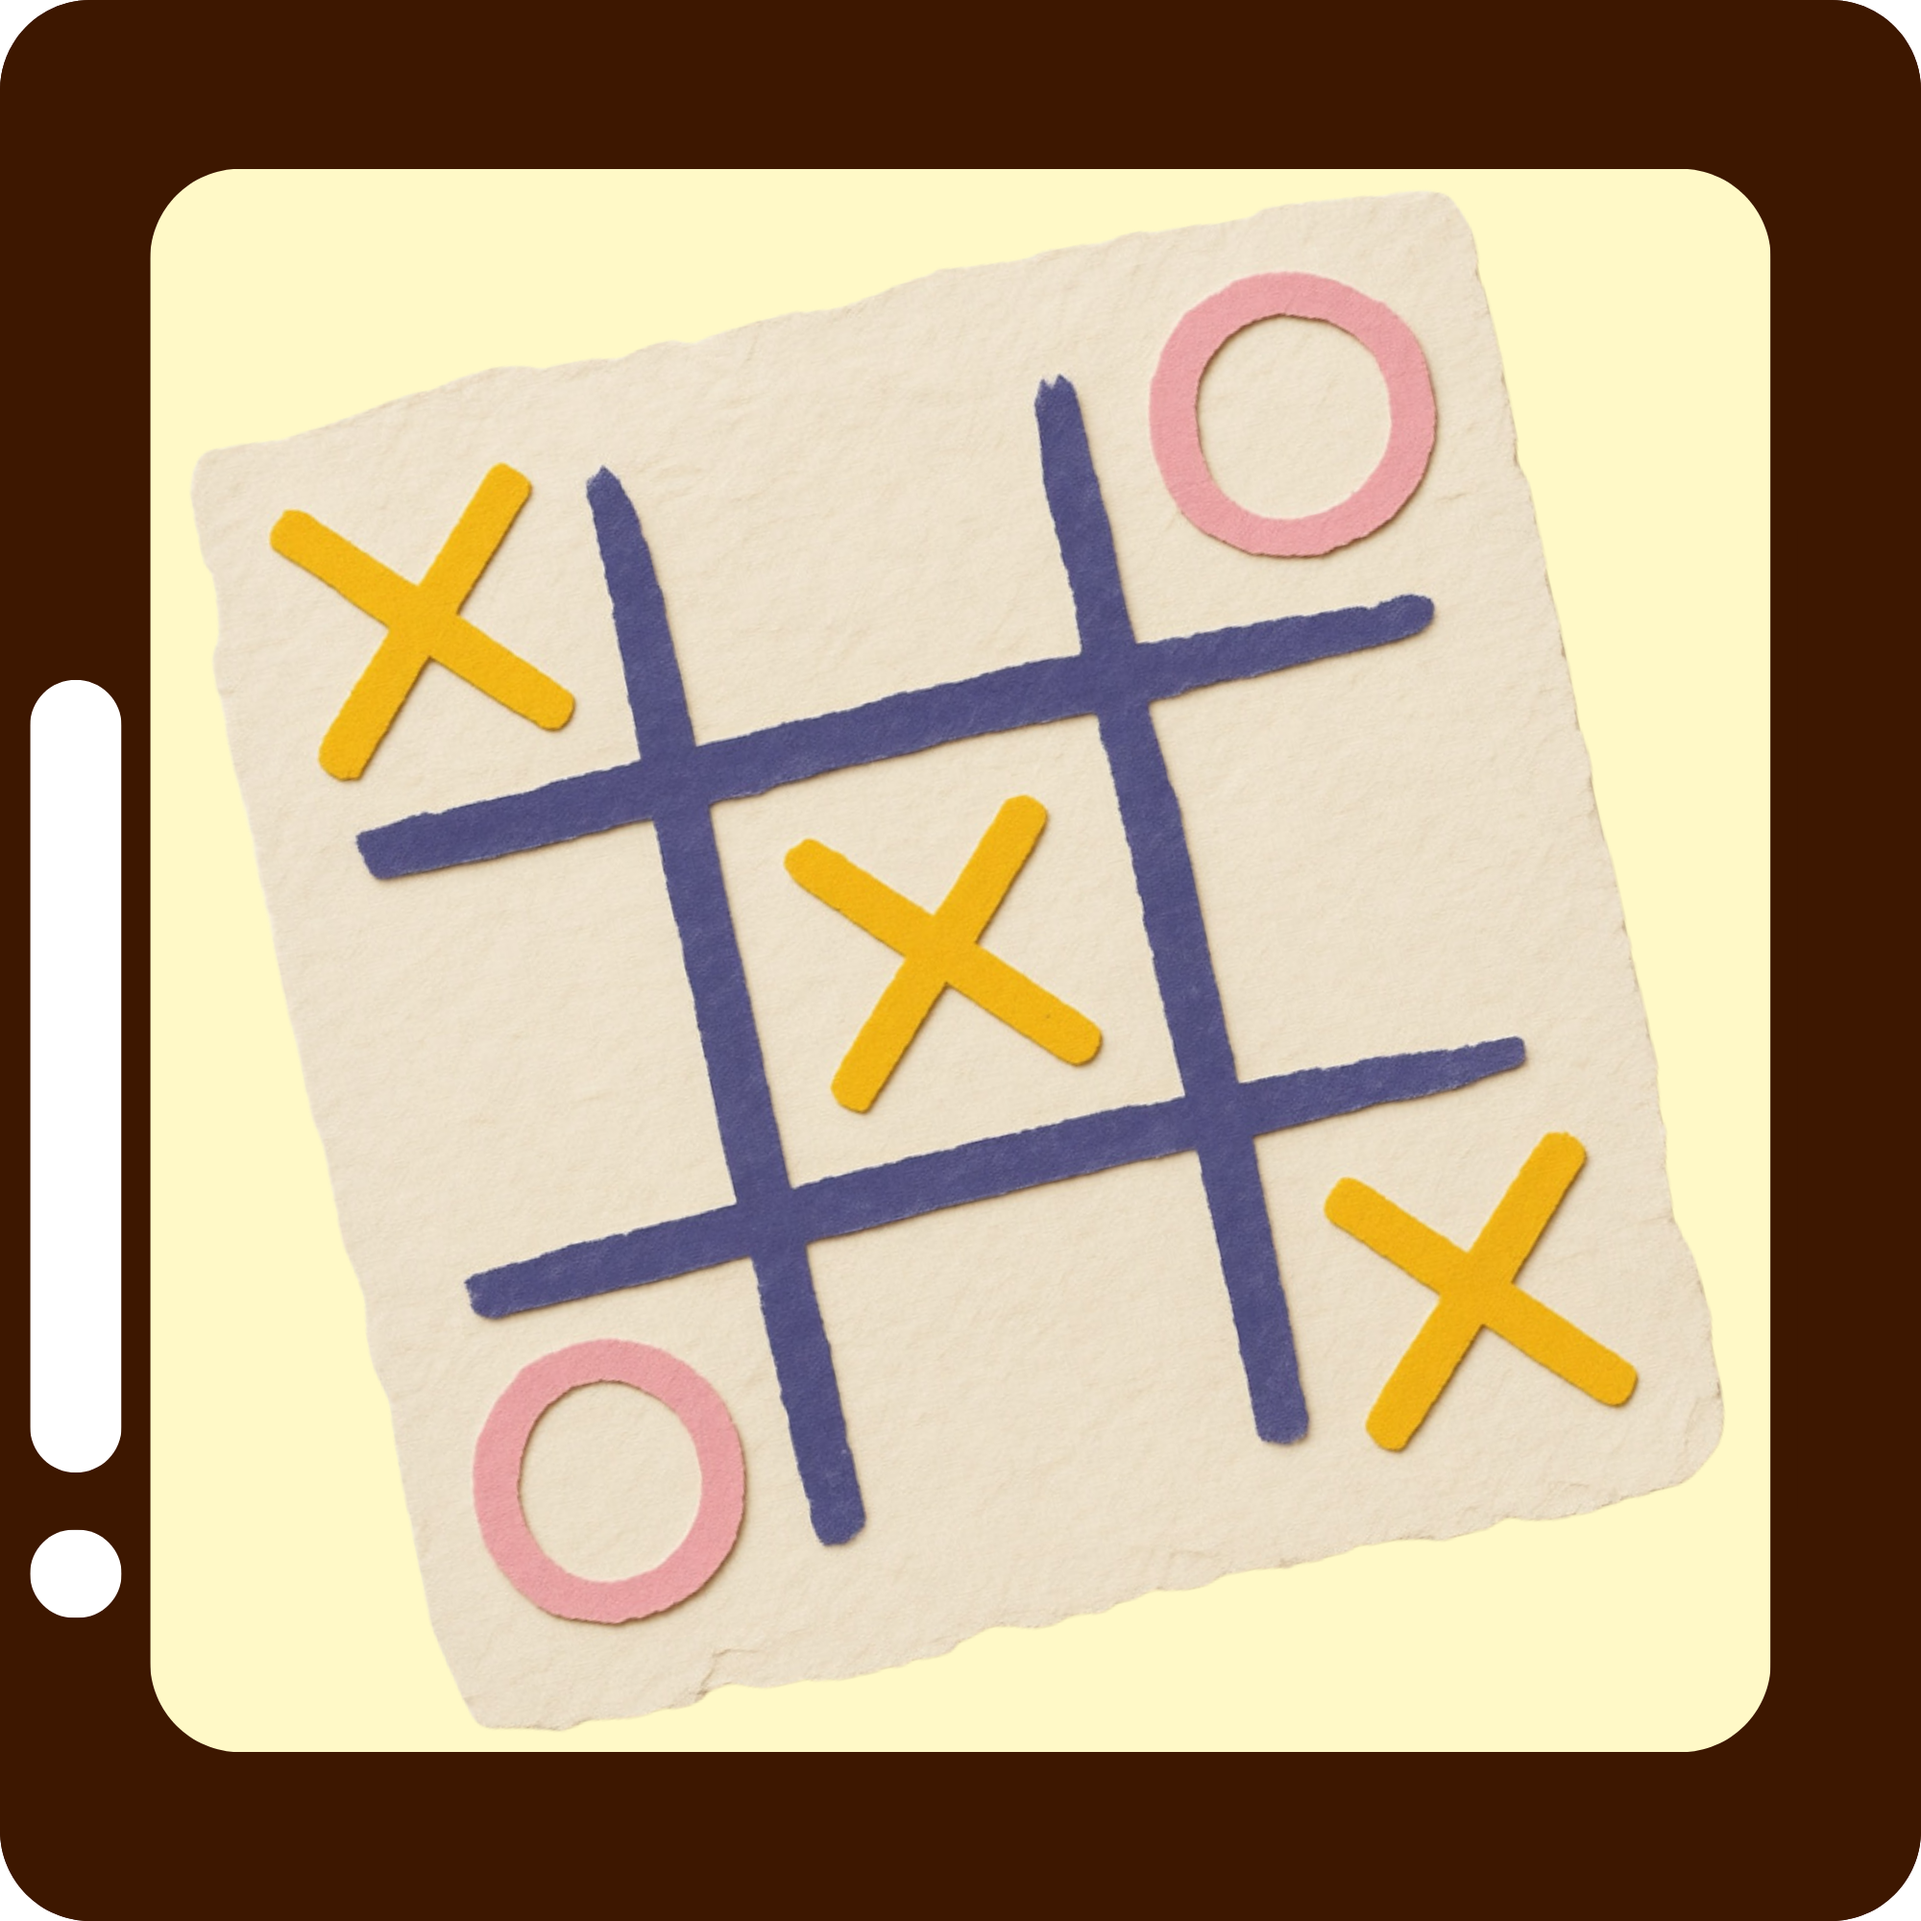
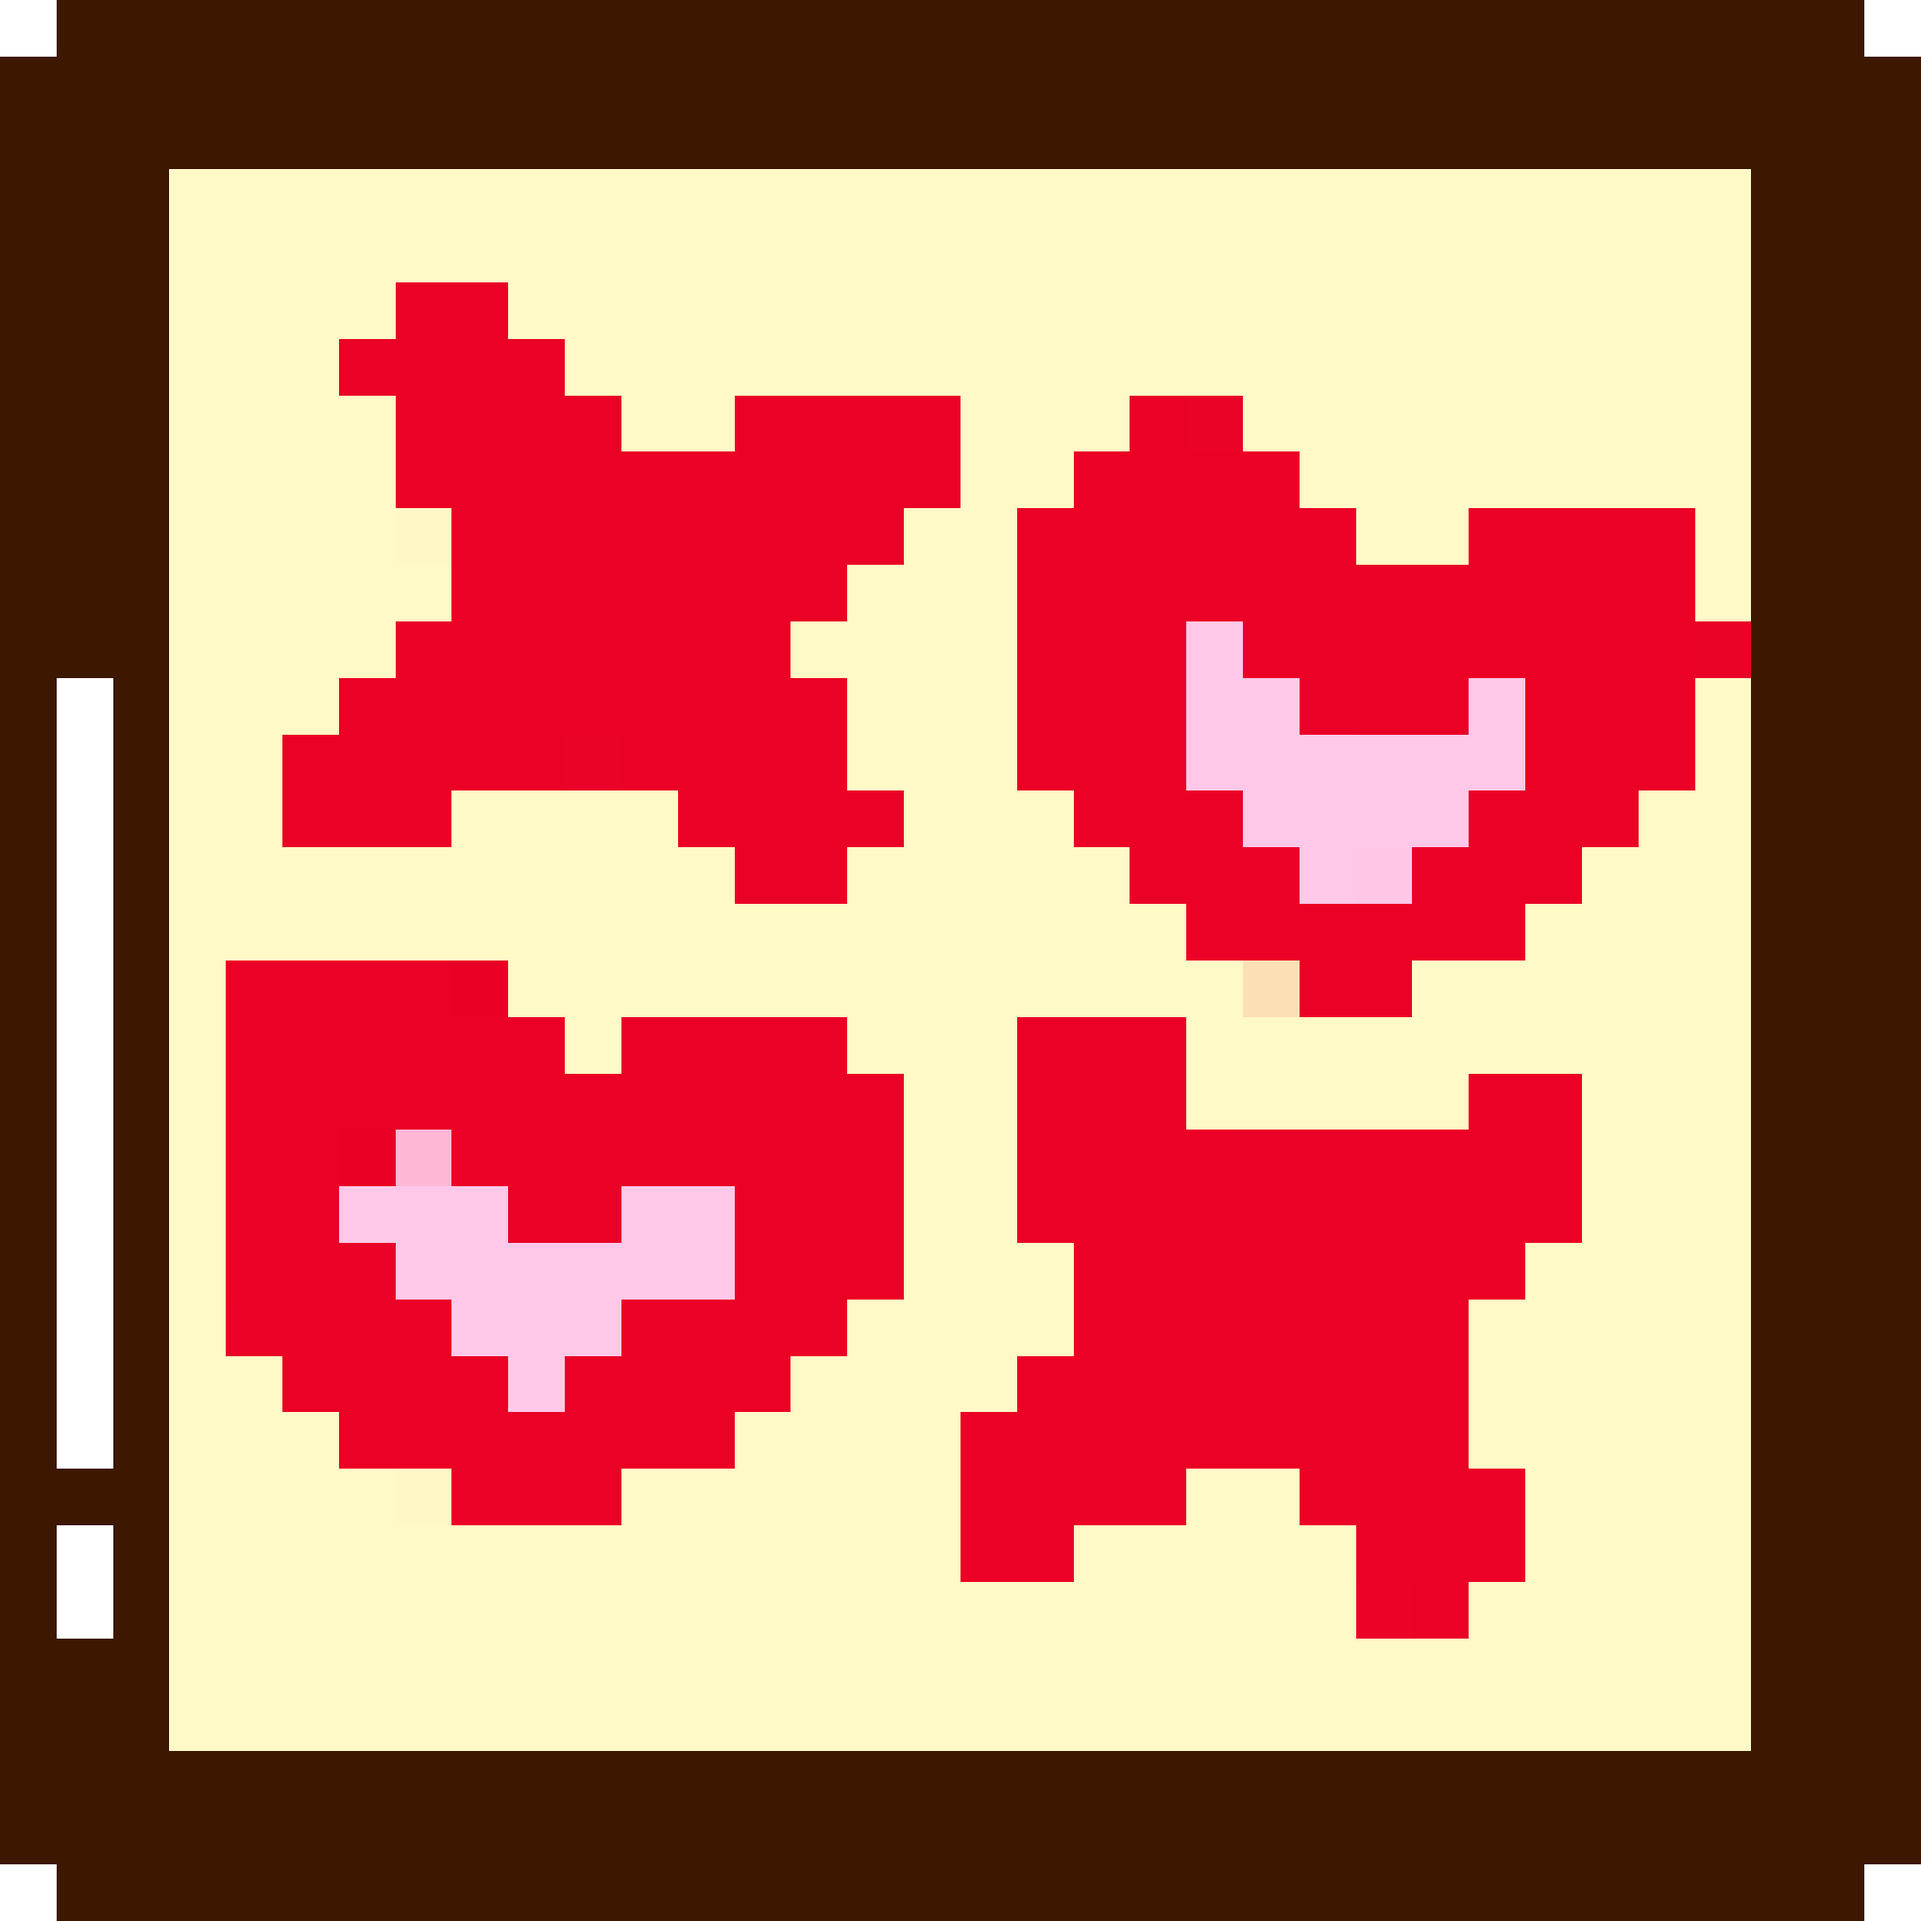
change background, change style and images of games

diff --git a/styles.css b/styles.css
@@ -1,4 +1,4 @@
-@import url('https://fonts.googleapis.com/css2?family=Bagel+Fat+One&display=swap');
+@import url('https://fonts.googleapis.com/css2?family=Bytesized&display=swap');
 
 * {
     margin: 0;
@@ -7,9 +7,13 @@
 }
 
 body {
-    font-family: "Bagel Fat One", sans-serif;
+    font-family: Bytesized, sans-serif;
     height: 100vh;
-    background-color: #fffceb;
+    background: url('./images/background.png');
+    background-size: cover;
+    background-position: center;
+    background-repeat: no-repeat;
+    background-attachment: fixed;
     display: flex;
     flex-direction: column;
     align-items: center;
@@ -17,19 +21,20 @@ body {
 }
 
 #gamezone-heading {
-    font-size: 10em;
-    margin-bottom: 0.5em;
-    color: #adac33;
-    text-shadow: 0.5rem 0.5rem 1rem #4f4b4b;
-    -webkit-text-stroke: 0.25rem #805b10;
+    font-size: 14rem;
+    color: #fcdd05;
+    text-shadow: 0.5rem 0.5rem 8rem #fefe0080;
+    -webkit-text-stroke: 1px #dd790f;
 }
 
 #games-container {
     display: flex;
-    align-items: center;
+    flex-wrap: wrap;
+    justify-content: center;
     gap: 3em;
-    padding: 0 16em;
-    height: 40vh;
+    padding: 1em;
+    width: 100%;
+    max-width: 70vw;
 }
 
 .game-option {
@@ -38,22 +43,29 @@ body {
     justify-content: center;
     align-items: center;
     gap: 0.5em;
-    padding: 1rem;
+    padding: 1.5rem 1rem;
+    width: 20vw;
     text-decoration: none;
     border-radius: 1em;
     transition: scale 1s ease;
 }
 
-.game-option:hover {
-    scale: 110%;
-}
-
-#game-title {
-    text-align: center;
-    color: #ee964b;
-    font-size: 4em;
+.game-option:hover,
+.game-option:focus {
+    scale: 1.05;
+    background-color: #fcdd05;
+    box-shadow: 0 10px 20px rgba(0, 0, 0, 0.1);
+    border: none;
+    outline: none;
 }
 
 img {
-    width: 16em;
+    width: 100%;
+    max-width: 16em;
+}
+
+.game-title {
+    font-size: 1.5rem;
+    color: #dd790f;
+    text-align: center;
 }

diff --git a/index.html b/index.html
@@ -10,17 +10,17 @@
     <h1 id="gamezone-heading">GAMEZONE</h1>
 
     <div id="games-container">
-        <a class="game-option" href="#">
+        <a class="game-option" href="./games/rock-paper-scissors/index.html">
             <img src='./images/rock-paper-scissors.png' alt="Rock Paper Scissors">
-            <h2>Rock Paper Scissors</h2>
+            <h2 class="game-title">Rock Paper Scissors</h2>
         </a>
         <a class="game-option" href="./games/tic-tac-toe/index.html">
             <img src='./images/tic-tac-toe.png' alt="Tic-Tac-Toe">
-            <h2>Tic-Tac-Toe</h2>
+            <h2 class="game-title">Tic-Tac-Toe</h2>
         </a>
         <a class="game-option" href="./games/wordle/index.html">
             <img src='./images/wordle.png' alt="Wordle">
-            <h2>Wordle</h2>
+            <h2 class="game-title">Wordle</h2>
         </a>
     </div>
 </body>
